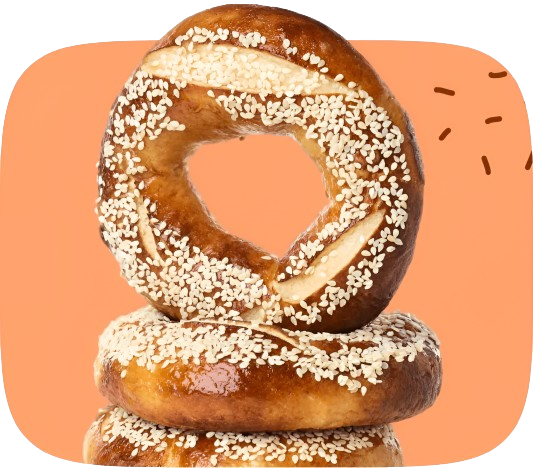
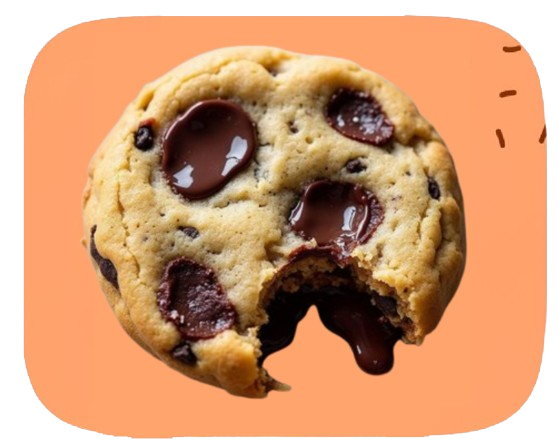
feat(style): Cambio de Producto hecho y estilizado

diff --git a/index.html b/index.html
@@ -18,14 +18,14 @@
             <div class="nav-container">
                 <ul class="nav-links">
                     <li><a href="#">NOSOTROS</a></li>
-                    <li><a href="#">TIENDA</a></li>
+                    <li><a href="#">LIBRO</a></li>
                     <li><a href="#">CONTACTO</a></li>
                 </ul>
             </div>
             <div class="compra-ya">
-                <a href="#"> COMPRA YA !</a>
+                <a href="#" class="btn-watts"> COMPRA YA !</a>
                 <div class="wattpas">
-                    <img src="img/wattsap.png" alt="WhatsApp">
+                    <img src="img/wattsap.png" alt="WhatsApp" >
                 </div>
             </div>
         </nav>
@@ -38,10 +38,12 @@
         </div>
         <div class="texto-container">
             <div class="panes-artesanales"> 
-                <p>PAN Y <br>GALLETAS <br>ARTESANALES</p>   
+                <p>cookies<br>irresistibles  <br>artesanales</p>   
             </div>
             <div class="Definicion">
-                <p>¡Estamos literalmente obsesionados <br>con dar más de lo que te gusta!</p>
+                <p>¡Haz que cada bocado sea inolvidable! Descubre la receta secreta para <br>
+                    las cookies perfectas comprando este libro virtual!
+                </p>
             </div>
             <div class="ordenes">
                 <a href="#" class="order-button">COMPRAR AHORA</a>
@@ -49,14 +51,14 @@
         </div>
 
         <div class="panecito">
-            <img src="img/pancito.png" alt="Panes">
+            <img src="img/yuuuuu.png" alt="Panes">
         </div>
     </section>
 
 
     <section class="contenedor2">
         <div class="imagen-panecillos">
-            <img src="img/panecillos.png" alt="Cesta de Panes">
+            <img src="img/varietys.jpg" alt="Cesta de Panes">
         </div>
         
         <div class="textos-contenedores">
@@ -71,23 +73,21 @@
             </div>
             <div class="trio-pancillo">
                 <div class="pan-bagel">
-                    <img src="img/bagel.png" alt="Panecillos de Bagel">
+                    <img src="img/kises.png" alt="Panecillos de Bagel">
                 </div>
                 <div class="Bagel-pan">
-                    <h3>Pan de Bagel</h3>   
-                    <p>Libre de Gluten</p>
+                    <h3>Galleta de Chocolate</h3>   
+                    <p>Dulce y encantador</p>
                 </div>
                 <div class="raya ">
                     <p>|</p>
                 </div>
                 <div class="costo-bagel">
-                    <p>S/2.50</p>
+                    <p>S/12.50</p>
                 </div>
             </div>
             <div class="Concepto-babe">
-                <p>Todas las galletas deberían tener un espectacular pastel <br>
-                    de chocolate alemán en su repertorio, y este es uno <br>
-                    de nuestros favoritos</p>
+                <p>Descubre cómo disfrutar de unas deliciosas galletas de chocolate con chips que no solo conquistan tu paladar, ¡sino que también son saludables! Este libro es la guía perfecta para hornear con amor y cuidado. </p>
             </div>
         </div>
     </section>
@@ -100,10 +100,10 @@
             </div>
             <div class="Descption">
                 <div class="Nombre-panes">
-                    <h4>BAGEL CON SEMILLAS</h4>
+                    <h4>RELLENO</h4>
                 </div>
                 <div class="Precio-panes">
-                    <h4>S/5.50</h4>
+                    <h4>CREMOSO</h4>
                 </div>
 
             </div>
@@ -114,10 +114,10 @@
             </div>
             <div class="Descption">
                 <div class="Nombre-panes">
-                    <h4>REBANADA DE PAN</h4>
+                    <h4>ESPONJOSO</h4>
                 </div>
                 <div class="Precio-panes">
-                    <h4>S/2.50</h4>
+                    <h4>DELICIOSO</h4>
                 </div>
 
             </div>
@@ -129,10 +129,10 @@
             </div>
             <div class="Descption">
                 <div class="Nombre-panes">
-                    <h4>GALLETAS DE GLUCOSA</h4>
+                    <h4>CRUJIENTE</h4>
                 </div>
                 <div class="Precio-panes">
-                    <h4>S/2.50</h4>
+                    <h4>DORADITA</h4>
                 </div>
 
             </div>
@@ -141,7 +141,74 @@
         
 
     </section>
+
+    <!-- Modal -->
+    <div id="modal" class="modal hide">
+        <div class="modal-content">
+            <h2>¡Queremos ayudarte!</h2>
+            <input type="text" id="nombre" placeholder="Tu nombre" required>
+            <input type="tel" id="telefono" placeholder="Tu teléfono" required>
+            <p id="errorMensaje" class="error-text"></p>
+            <div class="modal-footer">
+                <button class="btns" id="close">CERRAR</button>
+                <button  class="btnsd" id="enviarBtn">ENVIAR</button>
+            </div>
+        </div>
+    </div>
     
+    <script>
+        document.addEventListener("DOMContentLoaded", function () {
+            const modal = document.getElementById("modal");
+            const btn = document.querySelector(".btn-watts");
+            const closeBtn = document.getElementById("close");
+            const enviarBtn = document.getElementById("enviarBtn");
+            const nombreInput = document.getElementById("nombre");
+            const telefonoInput = document.getElementById("telefono");
+            const errorMensaje = document.getElementById("errorMensaje");
+            const whatsappIcon = document.querySelector(".wattpas img"); // Cambiado para seleccionar la imagen correcta
     
+            function openModal(event) {
+                event.preventDefault();
+                modal.classList.remove("hide");
+                modal.classList.add("show");
+                errorMensaje.style.display = "none";
+            }
+    
+            // Abrir modal al hacer clic en "COMPRA YA" o el ícono de WhatsApp
+            btn.addEventListener("click", openModal);
+            whatsappIcon.addEventListener("click", openModal); // Usando la selección corregida
+    
+            // Cerrar modal
+            closeBtn.addEventListener("click", () => {
+                modal.classList.remove("show");
+                modal.classList.add("hide");
+            });
+    
+            // Enviar datos a WhatsApp
+            enviarBtn.addEventListener("click", (event) => {
+                event.preventDefault(); // Previene el comportamiento por defecto del botón
+    
+                const nombre = nombreInput.value.trim();
+                const telefono = telefonoInput.value.trim();
+    
+                if (nombre === "" || telefono === "") {
+                    errorMensaje.textContent = "Por favor, ingresa tu nombre y teléfono.";
+                    errorMensaje.style.display = "block";
+                    return;
+                }
+    
+                const mensaje = `¡Hola! Soy ${nombre} y estoy interesad@ en los deliciosos productos de ROLLIN. \n\nMi número de contacto es: ${telefono}. \n\nMe encantaría recibir información sobre cómo realizar mi pedido. ¡Gracias!`;
+                const whatsappUrl = `https://wa.me/51997039226?text=${encodeURIComponent(mensaje)}`; // Número corregido
+                window.open(whatsappUrl, "_blank");
+    
+                // Cierra el modal y limpia los campos
+                modal.classList.remove("show");
+                modal.classList.add("hide");
+                nombreInput.value = "";
+                telefonoInput.value = "";
+            });
+        });
+    </script>
 </body>
+
 </html>

diff --git a/style/style.css b/style/style.css
@@ -97,7 +97,7 @@ nav {
 
 .texto-container {
     flex: 1;
-    margin-right: 890px;
+    margin-right: 580px;
 }
 .panes-artesanales p {
     font-size: 28px; 
@@ -129,12 +129,13 @@ nav {
 .panecito{
     display: inline-block;
     position: absolute;
-    margin-top: 150px;
-    margin-left: 650px;
+    margin-top: 180px;
+    margin-left: 700px;
 
 }
 .panecito img {
-    width: 490px; 
+    border-radius: 50px;
+    width: 450px; 
     height: auto;
 }
 
@@ -171,6 +172,12 @@ nav {
 }
 .imagen-panecillos{
     transition: transform 0.2s ease-in-out, filter 0.2s ease-in-out;
+}
+
+.imagen-panecillos img{
+    margin-top: 85px;
+    width: 400px; 
+    height: auto;
 }
 .imagen-panecillos:hover {
     transform: scale(1.04); /* Efecto de aumento al pasar el mouse */
@@ -318,4 +325,161 @@ nav {
 
 .Precio-panes h4 {
     color: #8b4227bb; /* Color naranja */
+}
+
+
+.modal {
+    opacity: 0;
+    visibility: hidden;
+    position: fixed;
+    z-index: 1000;
+    left: 0;
+    top: 0;
+    width: 100%;
+    height: 100%;
+    background-color: rgba(0, 0, 0, 0.7);
+    display: flex;
+    justify-content: center;
+    align-items: center;
+    transition: opacity 0.3s ease, visibility 0.3s ease;
+}
+
+.modal-content {
+    background: white;
+    padding: 30px;
+    border-radius: 12px;
+    width: 315px;
+    text-align: center;
+    position: relative;
+    transform: scale(0.8);
+    transition: transform 0.3s ease;
+    box-shadow: 0 5px 15px rgba(0, 0, 0, 0.3);
+}
+
+.modal.show {
+    opacity: 1;
+    visibility: visible;
+}
+
+.modal.show .modal-content {
+    transform: scale(1);
+}
+
+.modal.hide {
+    opacity: 0;
+    visibility: hidden;
+}
+
+.modal.hide .modal-content {
+    transform: scale(0.9);
+}
+
+h2 {
+    margin-top: 0;
+    margin-bottom: 20px;
+    color: #333;
+    font-size: 22px;
+}
+
+input {
+    width: 100%;
+    padding: 12px;
+    margin-bottom: 15px;
+    border: 1px solid #ddd;
+    border-radius: 6px;
+    font-size: 16px;
+    box-sizing: border-box;
+}
+
+input:focus {
+    outline: none;
+    border-color: #f7d438;
+    box-shadow: 0 0 5px rgba(247, 212, 56, 0.3);
+}
+
+.error-text {
+    color: #e74c3c;
+    font-size: 14px;
+    min-height: 20px;
+    margin: 10px 0;
+}
+
+.modal-footer {
+    margin-top: 20px;
+    display: flex;
+    justify-content: space-between;
+    gap: 10px;
+}
+
+.btn {
+    padding: 12px 20px;
+    border: none;
+    cursor: pointer;
+    font-size: 16px;
+    border-radius: 6px;
+    flex: 1;
+    font-weight: bold;
+    transition: background-color 0.2s ease, transform 0.1s ease;
+}
+.btns {
+    background-color: rgb(109, 109, 109);
+    color: white;
+    padding: 10px;
+    border: none;
+    border-radius: 5px;
+    cursor: pointer;
+    width: 135px;
+    font-family: "Barlow Condensed", sans-serif;
+    font-weight: 800;
+    font-style: normal;
+    font-size: 22px;
+    letter-spacing: 1px; /* Espaciado entre letras */
+    transition: ease 0.2s;
+  }
+
+  /* Botón de enviar (verde, estilo WhatsApp) */
+  .btnsd {
+    background-color: yellow;
+    color: black;
+    padding: 10px;
+    border: none;
+    border-radius: 5px;
+    cursor: pointer;
+    width: 135px;
+    font-family: "Barlow Condensed", sans-serif;
+    font-weight: 800;
+    font-style: normal;
+    font-size: 22px;
+    letter-spacing: 1px;
+    transition: ease 0.2s;
+  }
+
+  /* Efecto hover para los botones */
+  .btns:hover {
+    background-color: rgb(77, 77, 77); /* Oscurece el botón de cerrar */
+  }
+
+  .btnsd:hover {
+    background-color: rgb(233, 200, 15); /* Oscurece el botón de enviar */
+  }
+.btn:active {
+    transform: scale(0.97);
+}
+
+.btn-cancel {
+    background: #e0e0e0;
+    color: #333;
+}
+
+.btn-cancel:hover {
+    background: #d0d0d0;
+}
+
+.btn-submit {
+    background: #f7d438;
+    color: #333;
+}
+
+.btn-submit:hover {
+    background: #f1c913;
 }
